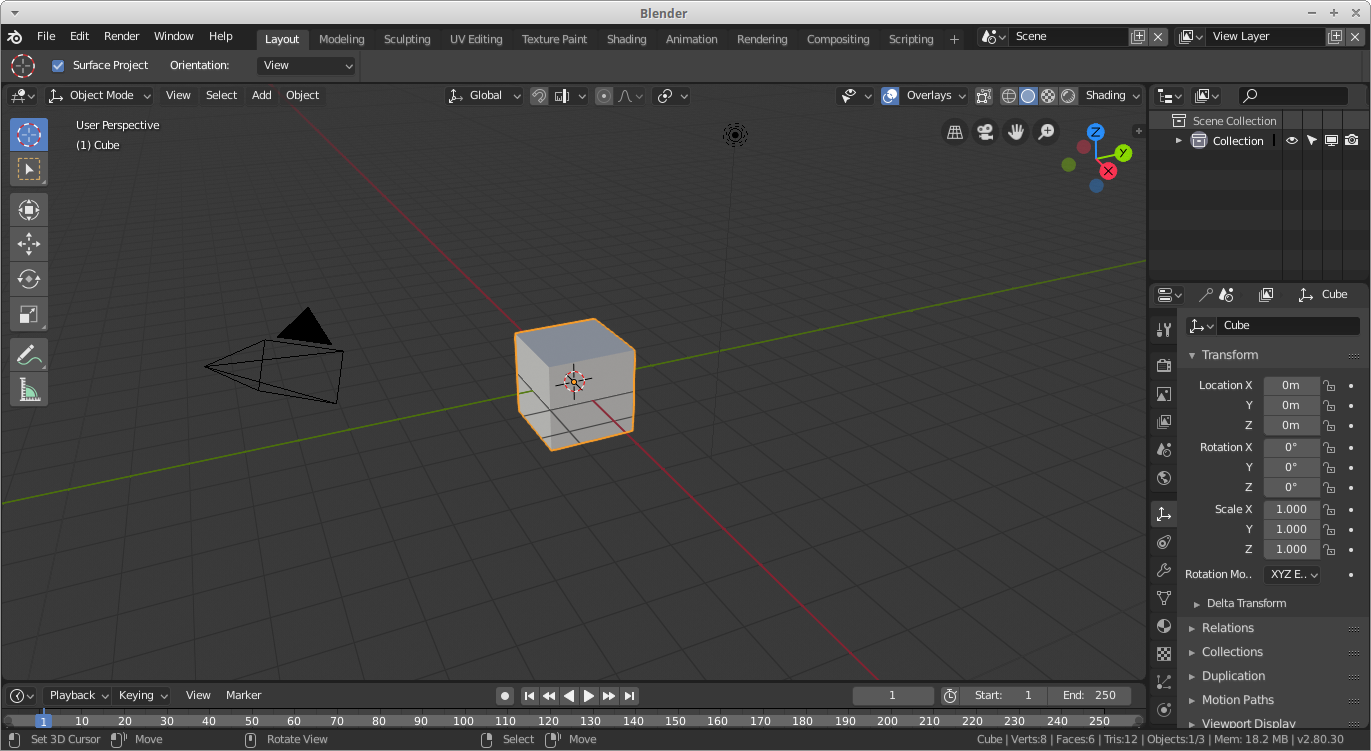
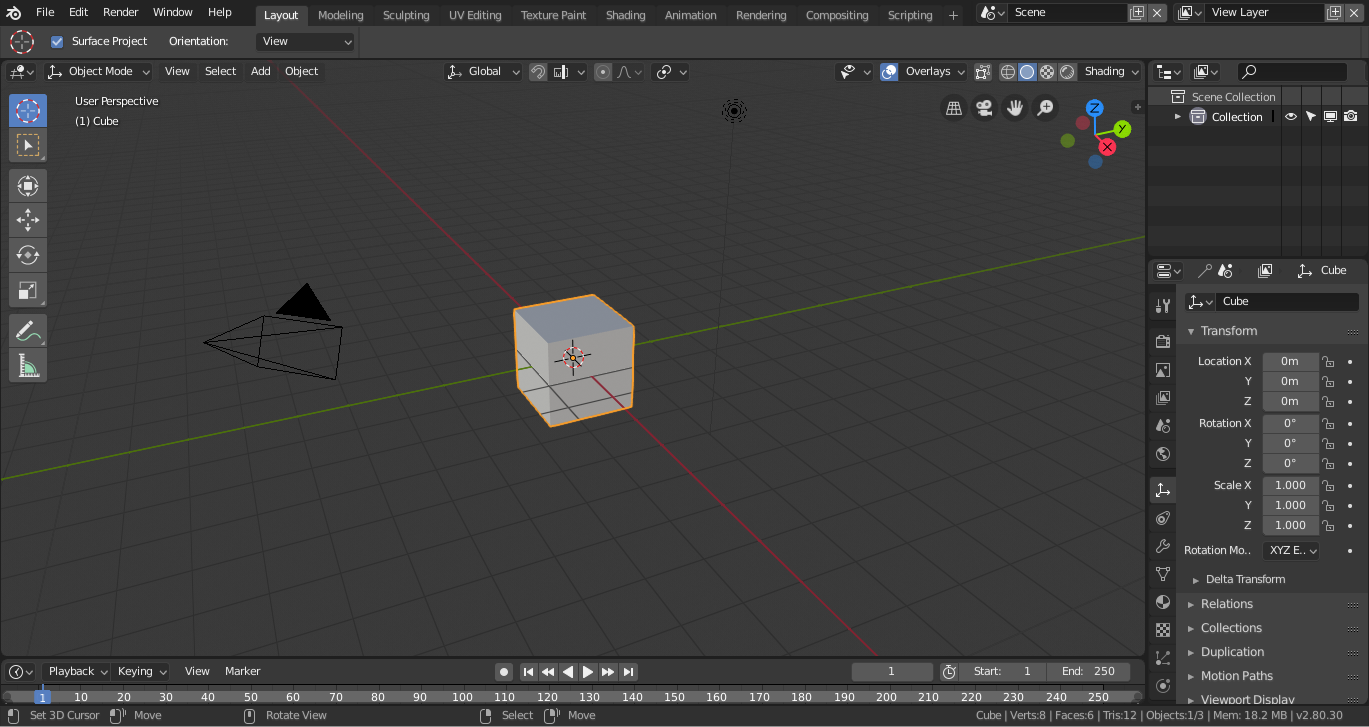
UI restore intro, workspaces
Please don't delete stuff if there's no proper replacement.
Don't include the window header in images (different between OSs).

diff --git a/manual/interface/window_system/introduction.rst b/manual/interface/window_system/introduction.rst
@@ -12,36 +12,66 @@ Blender's user interface is consistent across all platforms.
 
    The default startup Blender window.
 
-The Default Screen
+
+Interface Elements
 ==================
 
-Blender default start up uses the default screen layout, which is
-separated into four screens listed below:
+.. four screens or three?
 
-- *Top bar* at the very top.
-- *Tool settings* the second row at the top.
-- *Editors* area in the middle.
-- *Status bar* at the bottom.
+Blender's interface is separated into four screens listed below:
+
+- Top bar at the very top.
+- Tool settings the second row of the Top bar.
+- Editors area in the middle.
+- Status bar at the bottom.
+
+The large editors screen is further subdivided into
+:doc:`/interface/window_system/areas` containing the different editors.
+The interface can be customized to match specific tasks using
+:doc:`workspaces </interface/window_system/workspaces>`,
+which can then be named and saved for later use. The Layout workspace is described below.
 
 .. figure:: /images/interface_window-system_introduction_default-screen.png
 
-   Blender's default Screen Layout. Top bar (blue), Tool settings
-   (yellow), Editors (green) and Status bar (red).
+   Blender's default Screen Layout. Top bar (blue), Tool settings (yellow),
+   Editors (green) and Status bar (red).
 
-The large editors screen is further subdivided into
-:doc:`/interface/window_system/areas` for use of different
-editors. Blender default start-up shows the Layout workspace in the
-editors screen. This workspace contains the following :doc:`/editors/index`:
 
-- *3D view* on top left.
-- *Outliner* on top right.
-- *Properties editor* on bottom right.
-- *Timeline* on bottom left.
-  
+The Layout Workspace
+====================
+
+Blender default startup shows the "Layout" workspace in the editors screen.
+This workspace contains the following :doc:`/editors/index`:
+
+- 3D View on top left.
+- Outliner on top right.
+- Properties editor on bottom right.
+- Timeline on bottom left.
+
+.. todo 2.8 figure:: /images/interface_window-system_introduction_layout-workspace.png
+
+   Blender's Layout Workspace with four editors.
+
+   3D View (color), Outliner (), Properties editor () and Timeline ().
+
+
+Components of an Editor
+=======================
+
+In general an editor provides a way to view and
+modify your work through a specific part of Blender.
+
 Editors are divided into :doc:`/interface/window_system/regions`.
 Regions can have smaller structuring elements like
 :doc:`tabs and panels </interface/window_system/tabs_panels>`
 with buttons, controls and widgets placed within them.
+
+.. todo 2.8 figure:: /images/interface_window-system_introduction_editor.png
+
+   The 3D View editor.
+
+   Yellow: Main Region, green: Header, blue: Tool Shelf, purple: Operator Panel,
+   red: Sidebar.
 
 
 User Interface Principles

diff --git a/manual/interface/window_system/workspaces.rst b/manual/interface/window_system/workspaces.rst
@@ -1,3 +1,4 @@
+
 **********
 Workspaces
 **********
@@ -5,36 +6,41 @@ Workspaces
 .. figure:: /images/interface_window-system_workspaces_screen.png
    :align: center
 
-   Workspaces are located at the Top bar. Layout workspace is active by default.
+   Workspaces are located at the Top bar.
 
-*Workspaces* are essentially predefined window layouts. Blender's
-flexibility with :doc:`Areas </interface/window_system/areas>` lets
-you create customized workspaces for different tasks such as modeling,
-animating, and scripting. It is often useful to quickly switch between
+*Workspaces* are essentially predefined window layouts.
+Blender's flexibility with :doc:`Areas </interface/window_system/areas>`
+lets you create customized workspaces for different tasks such as
+modeling, animating, and scripting. It is often useful to quickly switch between
 different workspaces within the same file.
 
 
 Controls
 ========
 
+Tabs
+   Click on the tabs titles to switch between the workspaces.
+   To cycle between workspaces use :kbd:`Ctrl-PageUp` and :kbd:`Ctrl-PageDown`.
 Add ``+``
-   Click on the *Add* button to add a new workspace
-:kbd:`RMB`
-   Shows the context menu, with options to duplicate, delete and reorder workspaces
+   Click on the *Add* button to add a new workspace.
+Context menu :kbd:`RMB`
+   The context menu contains options to duplicate, delete and reorder workspaces.
 
-General Workspaces
-------------------
 
-:Layout: General workspace to preview your scene and objects.
-:Modeling: Modeling workspace, for modification of geometry by modeling tools.
-:Sculpting: Sculpting workspace, for modification of meshes by sculpting tools.  
+Default Workspaces
+==================
+
+:Layout: A general workspace to preview your scene and objects.
+:Modeling: For modification of geometry by modeling tools.
+:Sculpting: For modification of meshes by sculpting tools.
 :UV Editing: Mapping of image texture coordinates to 3D surfaces.
-:Texture Paint: Tools for coloring image textures in 3D view.
-:Shading: Tools for specifying material properties for render engines.
-:Animation: Tools for making properties of objects dependent on animation time.
-:Rendering: Viewing and analysing rendering results.
+:Texture Paint: Tools for coloring image textures in the 3D View.
+:Shading: Tools for specifying material properties for rendering.
+:Animation: Tools for making properties of objects dependent on time.
+:Rendering: For viewing and analyzing rendering results.
 :Compositing: Combining and post-processing of images and rendering information.
-:Scripting: Programming workspace for scripting and automation of Blender.
+:Scripting: Programming workspace for writing scripts.
+
 
 Save and Override
 =================

diff --git a/manual/render/eevee/lightprobes/reflection_cubemaps.rst b/manual/render/eevee/lightprobes/reflection_cubemaps.rst
@@ -66,18 +66,20 @@ Visibility Collection
       This is only a filtering option.
       This means that if an object is not visible at render time it won't be visible in during the probe render.
 
+
 Custom Parallax
+===============
 
-   .. admonition:: Reference
-      :class: refbox
+.. admonition:: Reference
+   :class: refbox
 
-      :Panel:     :menuselection:`Object Data --> Custom Parallax`
+   :Panel:     :menuselection:`Object Data --> Custom Parallax`
 
-   By default, the influence volume is also the parallax volume.
-   The parallax volume is a volume on which is projected the recorded lighting. It should roughly fit it surrounding.
-   In some cases it may be better to adjust the parallax volume without touching the influence parameters.
-   In this case, just enable the *Custom Parallax* and
-   change the shape and distance of the parallax volume independently.
+By default, the influence volume is also the parallax volume.
+The parallax volume is a volume on which is projected the recorded lighting. It should roughly fit it surrounding.
+In some cases it may be better to adjust the parallax volume without touching the influence parameters.
+In this case, just enable the *Custom Parallax* and
+change the shape and distance of the parallax volume independently.
 
 
 Viewport Display

diff --git a/manual/editors/movie_clip_editor/tracking/dope_sheet.rst b/manual/editors/movie_clip_editor/tracking/dope_sheet.rst
@@ -31,7 +31,7 @@ Header
 .. figure:: /images/editors_movie-clip-editor_tracking_dope-sheet_sort.png
    :align: right
 
-   Sort oder of the channels.
+   Sort order of the channels.
 
 Show
    Only selected (mouse cursor icon)
